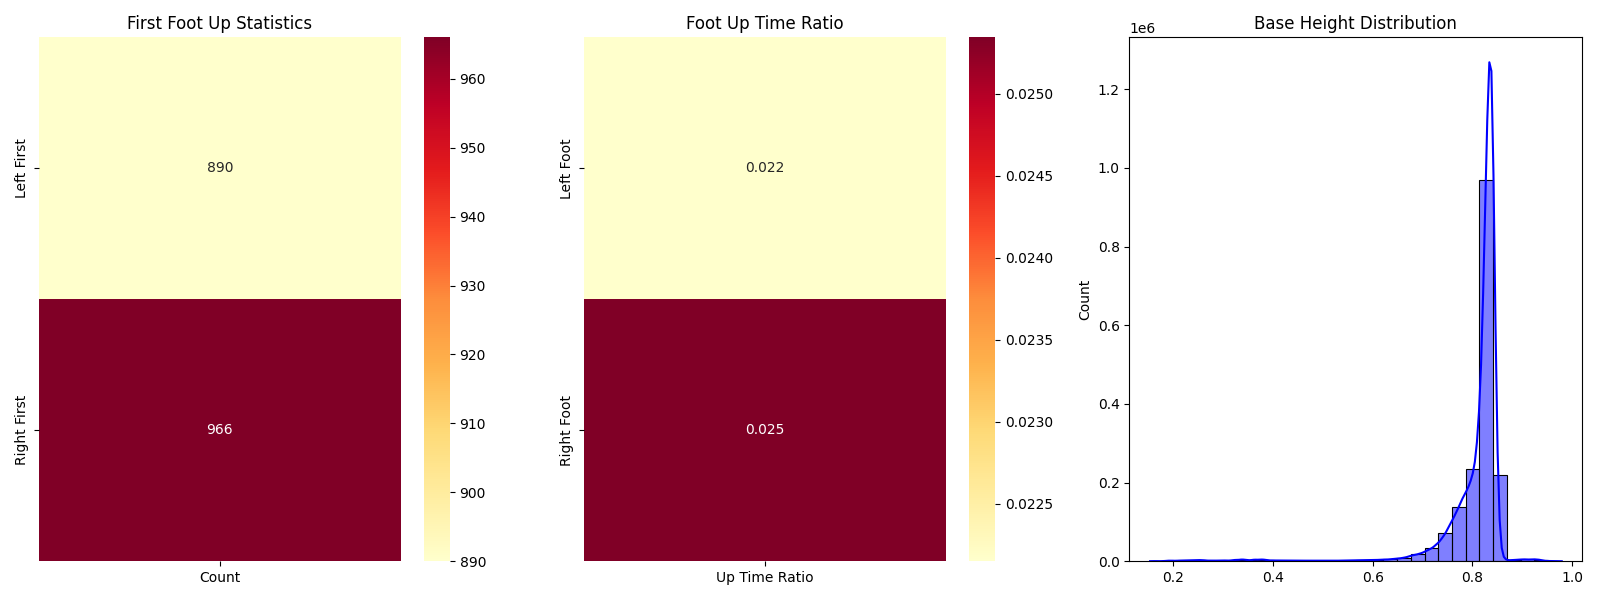
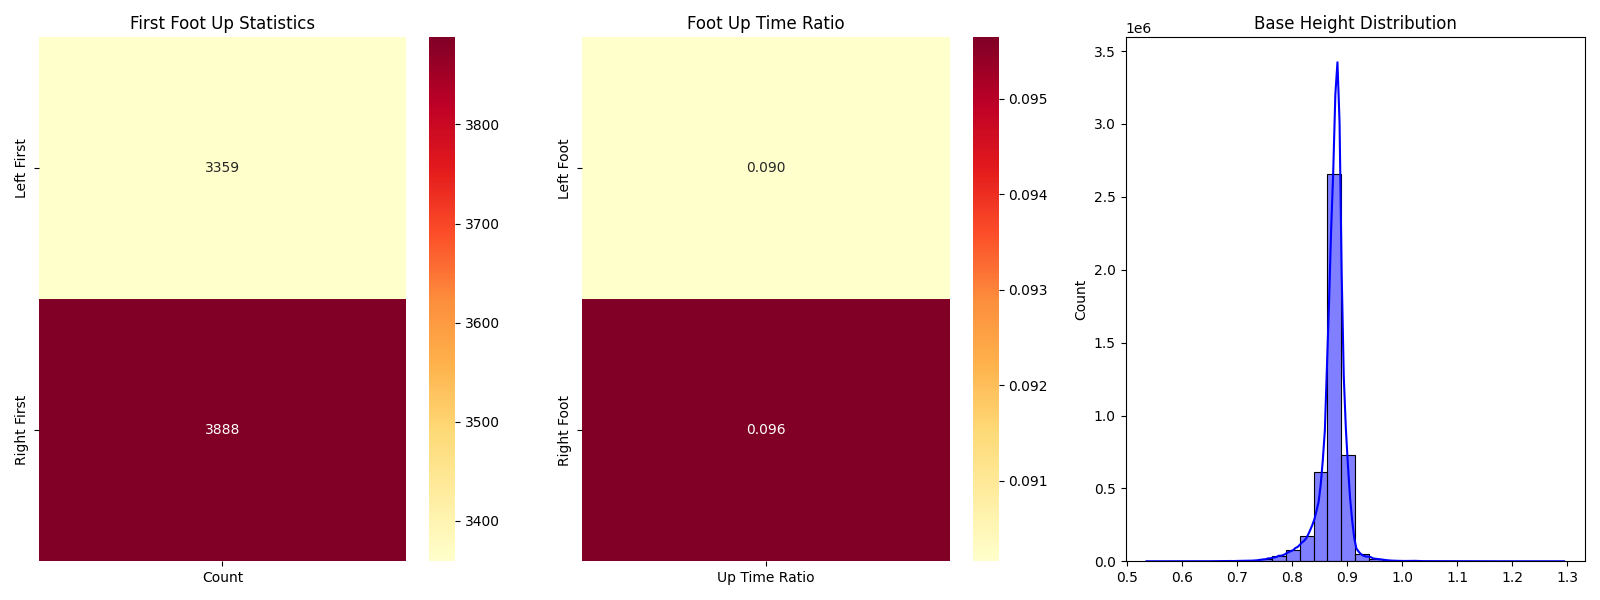
back to original reward

diff --git a/human2humanoid/legged_gym/legged_gym/envs/base/legged_robot_old.py b/human2humanoid/legged_gym/legged_gym/envs/base/legged_robot_old.py
@@ -316,7 +316,7 @@ class LeggedRobot(BaseTask):
             # self.torques[:, :] = 0
             # print(self.torques)
             self.gym.set_dof_position_target_tensor(
-                self.sim, gymtorch.unwrap_tensor(actions * self.cfg.control.action_scale + self.default_dof_pos)
+                self.sim, gymtorch.unwrap_tensor(actions * self.cfg.control.action_scale)
             )
             # self.gym.set_dof_actuation_force_tensor(
             #     self.sim, gymtorch.unwrap_tensor(self.torques)
@@ -3204,7 +3204,7 @@ class LeggedRobot(BaseTask):
                 self.root_states[env_ids, :3] = motion_res["root_pos"][env_ids]
                 # print("root",motion_res['root_pos'][env_ids])
                 # self.root_states[env_ids, 2] += 0.03 # in case under the terrain
-                self.root_states[env_ids, 2] += 0.05  # in case under the terrain
+                self.root_states[env_ids, 2] += 0.0  # in case under the terrain
 
                 # self.root_states[env_ids, 0] += 5.0 # in case under the terrain
                 # self.root_states[env_ids, 1] += 5.0 # in case under the terrain
@@ -6269,7 +6269,7 @@ class LeggedRobot(BaseTask):
         first_contact = (self.feet_air_time > 0.0) * contact_filt
         self.feet_air_time += self.dt
         rew_airTime = torch.sum(
-            (self.feet_air_time - 0.4) * first_contact, dim=1
+            (self.feet_air_time - 0.25) * first_contact, dim=1
         )  # reward only on first contact with the ground
         rew_airTime *= (
             torch.norm(ref_body_vel[:, 0, :2], dim=1) > 0.1

diff --git a/retarget/refine_to_axis.py b/retarget/refine_to_axis.py
@@ -177,7 +177,7 @@ def compute_fk_and_stats(dof, root_trans, root_rot, all_stats=None):
     root_rot_mat = sRot.from_quat(root_rot).as_matrix()
     robot_positions_rot = np.einsum('tij,tnj->tni', root_rot_mat, robot_positions) + root_trans[:, None, :]
     
-    z_offset = robot_positions_rot[:, :, 2].min().item()
+    z_offset = robot_positions_rot[:, :, 2].min().item() - 0.05
     
     if all_stats is not None:
         stat = check_state(robot_positions_rot - z_offset)
@@ -202,7 +202,8 @@ def compute_fk_and_stats(dof, root_trans, root_rot, all_stats=None):
     }, robot_positions_rot, stat['height_flag']
 
 if __name__ == "__main__":
-    data = joblib.load("gen_IK_new.pkl")
+    # data = joblib.load("gen_IK_new.pkl")
+    data = joblib.load("amass_IK_new.pkl")
     filter_keys = list(data.keys())
     
     # 初始化统计数据
@@ -257,4 +258,5 @@ if __name__ == "__main__":
     # 用封装好的函数来绘制统计结果
     plot_statistics(all_stats)
     
-    joblib.dump(data_new, "ik_new_final_gen.pkl")
+    # joblib.dump(data_new, "ik_new_final_gen.pkl")
+    joblib.dump(data_new, "ik_new_final_amass.pkl")
